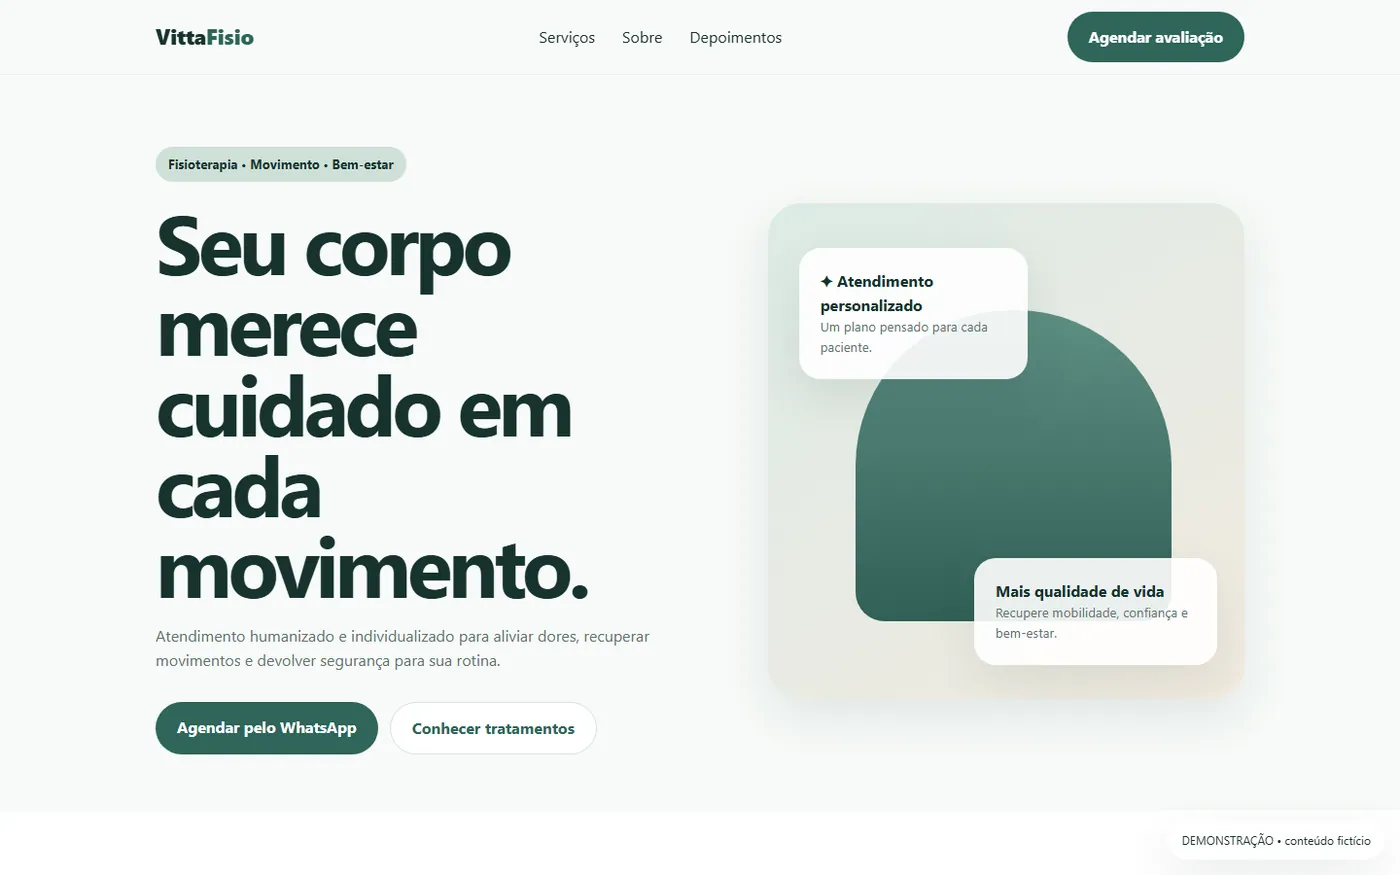
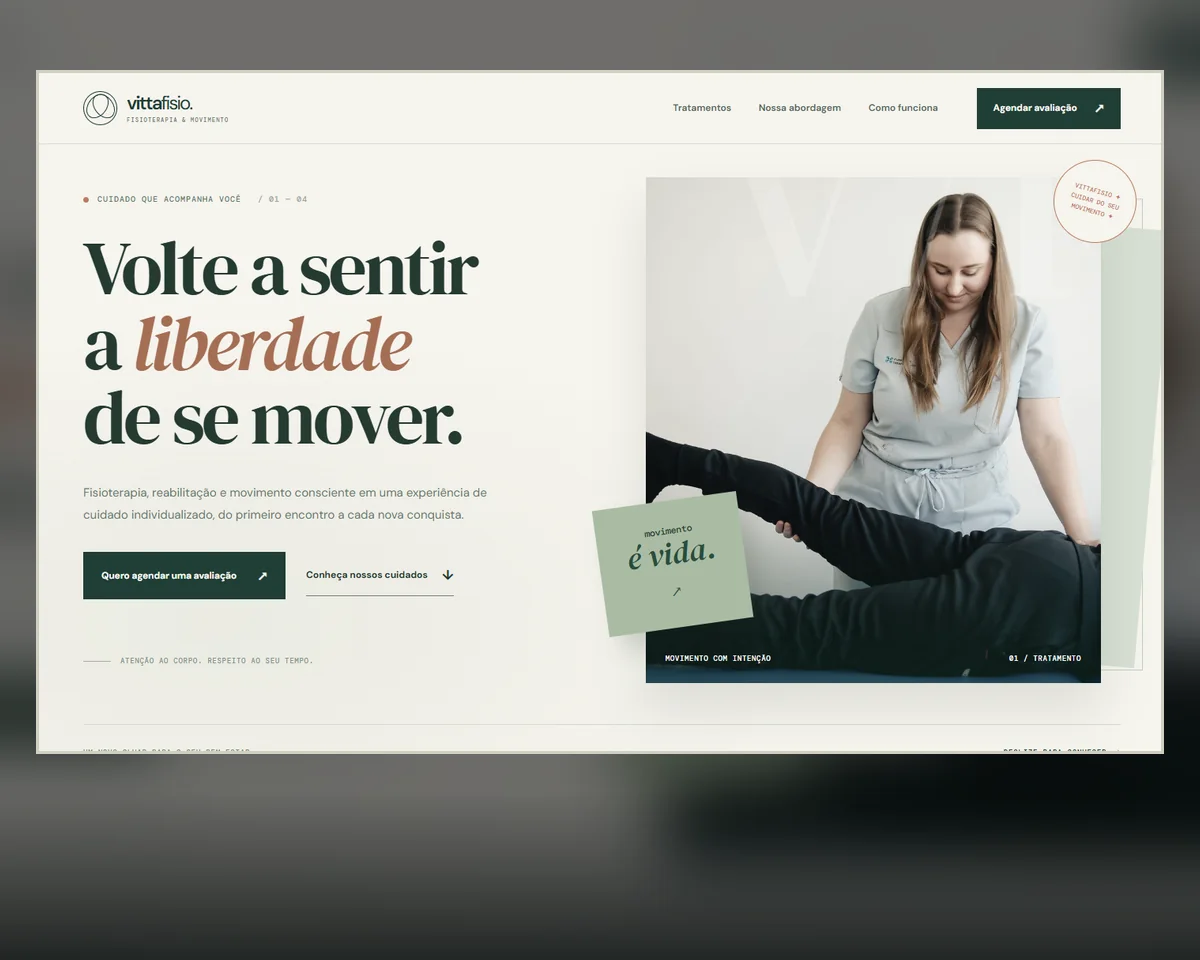
Atualiza portfolio com capturas reais e links das cinco demos

diff --git a/src/App.jsx b/src/App.jsx
@@ -25,7 +25,7 @@ const WHATSAPP = (import.meta.env.VITE_WHATSAPP_NUMBER || "5533998803892").repla
 const projects = [
   {
     id: "01",
-    title: "Automotive Detail",
+    title: "NOIR Auto Studio",
     kind: "Estética automotiva",
     type: "Landing page",
     category: "Institucional",
@@ -33,11 +33,11 @@ const projects = [
     image: "/projects/automotiva.webp",
     className: "car",
     description:
-      "Uma presença digital à altura do cuidado dedicado a cada veículo.",
+      "Detalhamento automotivo apresentado com fotografia dramática e visual premium.",
   },
   {
     id: "02",
-    title: "Climatiza",
+    title: "Leal Climatização",
     kind: "Climatização",
     type: "Landing page",
     category: "Institucional",
@@ -45,11 +45,11 @@ const projects = [
     image: "/projects/climatizacao.webp",
     className: "climate",
     description:
-      "Serviços, credibilidade e contato em uma experiência objetiva.",
+      "Um site profissional para apresentar serviços, transmitir confiança e gerar contatos.",
   },
   {
     id: "03",
-    title: "Movimento & Saúde",
+    title: "VittaFisio",
     kind: "Fisioterapia e pilates",
     type: "Site profissional",
     category: "Institucional",
@@ -57,30 +57,31 @@ const projects = [
     image: "/projects/fisioterapia.webp",
     className: "physio",
     description:
-      "Uma apresentação acolhedora para profissionais que cuidam de pessoas.",
+      "Uma experiência acolhedora e editorial para serviços de fisioterapia e movimento.",
   },
   {
     id: "04",
-    title: "Ambiental Engenharia",
-    kind: "Engenharia ambiental",
-    type: "Site institucional",
+    title: "PRUMO Engenharia Civil",
+    kind: "Engenharia civil",
+    type: "Site interativo",
     category: "Institucional",
-    url: "https://demo-ambiental-engenharia.vercel.app/",
+    url: "https://demo-engenharia-civil.vercel.app/",
     image: "/projects/engenharia.webp",
     className: "engineering",
     description:
-      "Design editorial para comunicar competência e visão de futuro.",
+      "Estúdio de projetos com navegação lateral, especialidades e briefing interativo.",
   },
   {
     id: "05",
-    title: "Ieié Menu",
-    kind: "Cardápio digital",
+    title: "Lanche do IEIÉ",
+    kind: "Hamburgueria",
     type: "Aplicação web",
     category: "Aplicação",
-    url: "https://web--ieie-app--nw8yr2c7byc6.code.run",
+    url: "https://web--ieie-app--nw8yr2c7byc6.code.run/",
     image: "/projects/cardapio.webp",
     className: "food",
-    description: "Uma experiência de pedidos com cardápio, opções e carrinho.",
+    description:
+      "Cardápio cinematográfico com personalização de produtos, carrinho e pedidos.",
   },
 ];
 const services = [
@@ -387,7 +388,7 @@ export default function App() {
                   <div className="project-image">
                     <img
                       src={p.image}
-                      alt={`Imagem conceitual de ${p.kind}`}
+                      alt={`Captura da página inicial de ${p.title}`}
                       loading="lazy"
                     />
                     <div className="project-overlay" />
@@ -413,9 +414,9 @@ export default function App() {
               ))}
             </div>
             <div className="projects-note" data-reveal>
-              <span>*</span> Os projetos desta seção são demonstrações
-              conceituais. As imagens de capa são ilustrativas; clique para
-              explorar os sites reais em funcionamento.
+              <span>*</span> Os projetos são demonstrações, não trabalhos contratados.
+              As capas mostram capturas reais dos sites publicados; clique em
+              cada projeto para explorar a versão online.
             </div>
           </div>
         </section>

diff --git a/src/cinematic-v2.css b/src/cinematic-v2.css
@@ -268,3 +268,11 @@
   .hero-brand-showcase:hover .showcase-mark img { transform: none; }
   .project-card { translate: 0 0 !important; }
 }
+
+/* Prints reais: preservar as cores de cada identidade visual, sem o filtro cinza do layout anterior. */
+.projects .project-image{background:#121c1b}
+.projects .project-image img{filter:saturate(1.03) brightness(.98) contrast(1.01);object-position:center center}
+.projects .project-card:hover .project-image img{filter:saturate(1.1) brightness(1.045) contrast(1.02);transform:scale(1.025)}
+@media(prefers-reduced-motion:reduce){
+  .projects .project-card:hover .project-image img{transform:none}
+}

diff --git a/render-covers.py b/render-covers.py
@@ -1,0 +1,33 @@
+from PIL import Image, ImageFilter, ImageEnhance, ImageDraw
+from pathlib import Path
+root = Path(r"C:\Users\Luan\Documents\portifolio\luan-silva-portfolio\public\projects")
+source = root / "_captures"
+for name in ["automotiva", "climatizacao", "fisioterapia", "engenharia", "cardapio"]:
+    img = Image.open(source / f"{name}.png").convert("RGB")
+    img = img.crop((0, 0, min(1420,img.width), min(858,img.height)))
+    canvas_size = (1200, 960)
+    cover_ratio = max(canvas_size[0] / img.width, canvas_size[1] / img.height)
+    back = img.resize((round(img.width * cover_ratio), round(img.height * cover_ratio)), Image.Resampling.LANCZOS)
+    x = (back.width - canvas_size[0])//2; y = (back.height - canvas_size[1])//2
+    back = back.crop((x,y,x+canvas_size[0],y+canvas_size[1]))
+    back = back.filter(ImageFilter.GaussianBlur(30))
+    back = ImageEnhance.Brightness(back).enhance(.32 if name != "fisioterapia" else .45)
+    canvas = back.copy()
+    screen_width = 1122
+    screen_height = round(img.height * screen_width / img.width)
+    screen = img.resize((screen_width, screen_height), Image.Resampling.LANCZOS)
+    px,py = 39,73
+    border = Image.new("RGB", (screen_width+6,screen_height+6), (208,207,193))
+    canvas.paste(border,(px-3,py-3))
+    canvas.paste(screen,(px,py))
+    shade = Image.new("RGBA",canvas_size,(0,0,0,0))
+    shade_draw = ImageDraw.Draw(shade)
+    for row in range(790,960):
+        opacity=int(180 * (row-790) / 170)
+        shade_draw.line([(0,row),(1200,row)], fill=(3,9,8,opacity))
+    canvas = Image.alpha_composite(canvas.convert("RGBA"),shade).convert("RGB")
+    dest = root / f"{name}.webp"
+    canvas.save(dest,format="WEBP",quality=84,method=6)
+    preview=canvas.copy(); preview.thumbnail((550,440))
+    preview.save(source/f"{name}-card.webp",format="WEBP",quality=65)
+    print(name, "file",dest.stat().st_size,"preview",preview.size)

diff --git a/README.md b/README.md
@@ -1,46 +1,55 @@
 # Luan Silva | Desenvolvedor Web
 
-Portfólio responsivo em React + Vite, com cinco projetos demonstrativos, serviços, processo de contratação e formulário de orçamento via WhatsApp.
+Portfólio responsivo desenvolvido em React + Vite, com cinco demonstrações publicadas, serviços oferecidos, processo de contratação e solicitação de orçamento por WhatsApp.
 
-## Rodar localmente
+## Executar localmente
 
 ```bash
 npm install
-cp .env.example .env
 npm run dev
 ```
 
-No Windows PowerShell, use `Copy-Item .env.example .env`.
-
-## Ativar WhatsApp (necessário antes de publicar)
-
-Edite `.env`:
-
-```env
-VITE_WHATSAPP_NUMBER=5531999999999
-```
-
-Troque pelo **seu** número, com DDI + DDD e sem espaços ou símbolos. O formulário gera uma mensagem personalizada e abre uma conversa com você no WhatsApp. Se o número não estiver configurado, o formulário exibe um aviso e não envia mensagens a um número incorreto.
-
-No deploy Vercel/Netlify, configure a variável `VITE_WHATSAPP_NUMBER` nas configurações do projeto e gere um novo build.
-
-## Publicar
+Para gerar a versão de produção:
 
 ```bash
 npm run build
 ```
 
-Na Vercel, importe o repositório GitHub, configure Framework Preset `Vite`, Build Command `npm run build` e Output Directory `dist`.
+## Projetos em destaque
 
-## Conteúdo e transparência
+As capas da seção **Projetos** são montagens com **capturas reais das páginas iniciais** das demonstrações hospedadas (não são fotos genéricas, nem trabalhos contratados):
 
-Os cinco links da seção Projetos são demonstrações. As imagens de capa são ilustrativas (Unsplash), **não** screenshots dos projetos nem prova de trabalho contratado. Substitua por capturas reais das demos quando possível.
+| Projeto | Link |
+| --- | --- |
+| NOIR Auto Studio | https://demoautomobilistica.netlify.app/ |
+| Leal Climatização | https://democlimatiza.netlify.app/ |
+| VittaFisio | https://demo-fisio-wine.vercel.app/ |
+| PRUMO Engenharia Civil | https://demo-engenharia-civil.vercel.app/ |
+| Lanche do IEIÉ | https://web--ieie-app--nw8yr2c7byc6.code.run/ |
+
+Todos são projetos demonstrativos; marcas e fotografias de serviços podem ser ilustrativas dentro de cada demo.
+
+Os cards são configurados em `src/App.jsx`, na constante `projects`. As imagens otimizadas em WebP ficam em `public/projects`.
+
+### Atualizar as capturas
+
+No Windows, execute `capture-demos.ps1`, que abre as URLs públicas no Chrome em modo headless, e depois `render-covers.py` converte e enquadra as capturas em WebP. Não use o script quando os projetos estiverem fora do ar.
+
+As capturas correspondem ao estado dos sites na data em que foram realizadas e podem ficar desatualizadas quando as demonstrações forem reformuladas.
+
+## WhatsApp do portfólio
+
+Configure seu número no arquivo `.env` ou nas variáveis da Vercel:
+
+```env
+VITE_WHATSAPP_NUMBER=5531999999999
+```
+
+Substitua pelo seu número com DDI e DDD, sem espaços ou símbolos.
 
 ## Personalização
 
-- Projetos e links: `src/App.jsx` (`projects`)
-- Serviços e processo: `src/App.jsx` (`services`, `steps`)
-- Cores, layout e animações: `src/styles.css`
-- SEO e título: `index.html`
-
-Observação: fontes e imagens de capa externas exigem internet para carregar. O conteúdo e a navegação continuam funcionais sem elas.
+- Cards e links: `src/App.jsx`
+- Estética e animações: `src/styles.css`, `src/brand-refresh.css` e `src/cinematic-v2.css`
+- Metadados e SEO: `index.html`
+- Capturas: `public/projects/*.webp`
